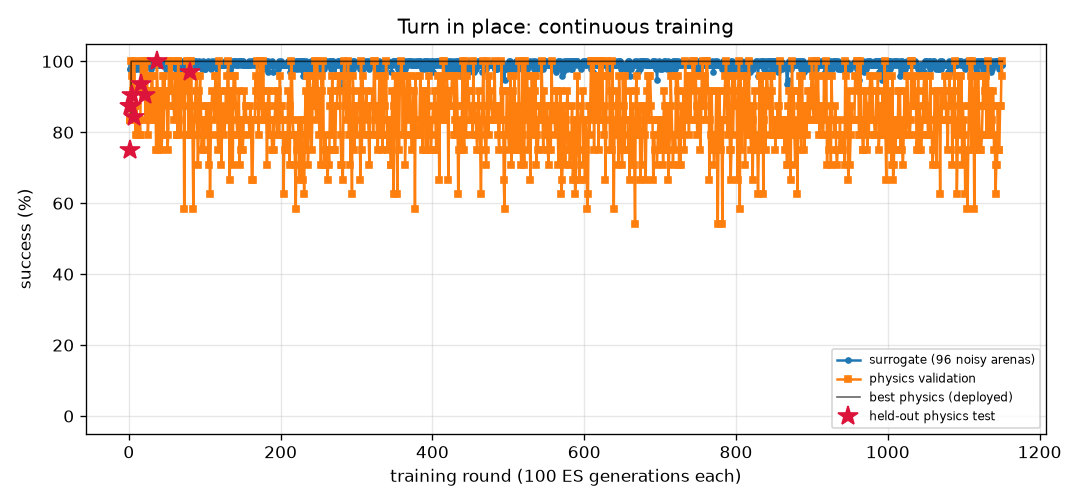
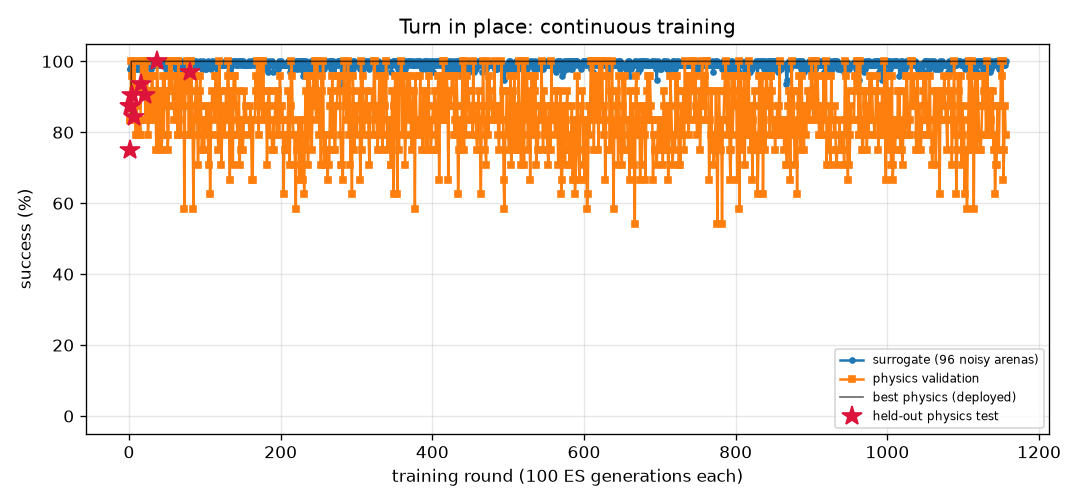
FlyLab: continuous training progress
- walk_forward: optimal, physics val 100% of 24, round 434
- turn: optimal, physics val 100% of 24, round 1156
- goto: optimal, physics val 100% of 24, round 333
- odor_seek: optimal, physics val 100% of 24, round 269
- odor_avoid: optimal, physics val 100% of 24, round 998
- light_seek: optimal, physics val 100% of 24, round 535
- light_avoid: optimal, physics val 100% of 24, round 711

diff --git a/projects/09_flylab/training/odor_avoid/REPORT.md b/projects/09_flylab/training/odor_avoid/REPORT.md
@@ -1,14 +1,14 @@
 # Escape a bad smell (`odor_avoid`) — training report
 
-*Auto-generated by `train_brains.py`, last updated 2026-11-18T23:05:53.*
+*Auto-generated by `train_brains.py`, last updated 2026-11-19T09:53:25.*
 
 ![curve](curve.png)
 
 | | |
 |---|---|
-| rounds | 994 |
-| ES generations | 99400 |
-| physics runs | 21162 |
+| rounds | 998 |
+| ES generations | 99800 |
+| physics runs | 21258 |
 | status | **optimal** |
 | best brain | round 373: physics validation **100%** on 24 arenas, surrogate 97% |
 | held-out physics test | **97%** on 32 unseen arenas (95% CI 84%-99%) (errors: [62.0, 57.4, 62.6, 61.9, 59.0, 61.6, 56.5, 60.7, 31.7, 60.9, 63.1, 57.1, 61.1, 62.1, 61.5, 60.2, 62.2, 55.2, 62.1, 54.2, 61.3, 62.0, 58.0, 61.9, 59.8, 56.5, 56.3, 56.4, 56.3, 57.7, 61.9, 32.4]) |
@@ -17,10 +17,6 @@ Physics error per arena: mm gained away from source (> 6 without first approachi
 
 | round | level | gens | sigma | surrogate | physics val | val errors | test | note |
 |---:|---:|---:|---:|---:|---:|---|---:|---|
-| 955 | 3 | 95500 | 0.025 | 94% | 96% | [60.5, 59.3, 56.0, 59.6, 61.7, 60.2, 61.5, 3.8, 61.9, 18.9, 61.3, 61.6, 55.0, 55.8, 51.1, 60.7, 61.8, 59.4, 54.8, 56.8, 61.1, 22.9, 58.8, 17.3] |  |  |
-| 956 | 3 | 95600 | 0.028 | 94% | 96% | [59.8, 59.1, 56.6, 59.5, 62.0, 60.9, 61.0, 61.4, 61.1, 60.6, 61.4, 61.7, 54.8, 56.7, 52.0, 61.2, 61.6, 60.7, 54.2, 55.8, 61.5, 61.8, 59.7, 61.0] |  |  |
-| 957 | 3 | 95700 | 0.028 | 98% | 96% | [62.4, 57.1, 56.6, 59.4, 62.2, 62.4, 60.3, 48.5, 61.6, 62.0, 61.7, 61.3, 52.2, 56.5, 42.9, 61.3, 62.1, 61.6, 52.8, 56.6, 62.0, 62.4, 59.7, 60.5] |  | restart from best |
-| 958 | 3 | 95800 | 0.026 | 97% | 100% | [63.5, 57.7, 58.1, 61.2, 62.6, 61.9, 61.8, 41.7, 60.3, 60.3, 61.8, 61.0, 54.6, 58.3, 38.2, 61.6, 61.9, 60.7, 55.1, 55.3, 61.7, 60.2, 58.4, 58.1] |  |  |
 | 959 | 3 | 95900 | 0.026 | 97% | 96% | [61.1, 58.5, 56.1, 58.6, 60.3, 60.8, 59.6, 31.2, 60.6, 50.7, 56.5, 60.2, 51.2, 56.3, 37.9, 59.3, 61.0, 60.2, 54.3, 58.6, 60.5, 58.7, 58.4, 54.6] |  |  |
 | 960 | 3 | 96000 | 0.026 | 95% | 96% | [60.4, 57.2, 54.9, 58.8, 59.9, 59.2, 59.1, 44.5, 59.5, 59.4, 60.0, 59.8, 53.6, 55.1, 47.1, 59.5, 59.7, 59.7, 53.7, 55.2, 59.9, 58.2, 57.3, 57.7] |  |  |
 | 961 | 3 | 96100 | 0.027 | 96% | 92% | [59.0, 57.6, 54.0, 57.9, 58.5, 58.7, 58.7, 46.7, 59.2, 56.7, 57.1, 58.7, 50.4, 50.8, 35.2, 57.7, 59.0, 59.2, 48.1, 56.3, 58.8, 55.7, 56.9, 56.7] |  | restart from best |
@@ -57,3 +53,7 @@ Physics error per arena: mm gained away from source (> 6 without first approachi
 | 992 | 3 | 99200 | 0.028 | 95% | 96% | [63.4, 59.2, 58.0, 61.4, 62.0, 61.2, 60.9, 47.0, 59.6, 57.9, 62.0, 61.4, 51.8, 55.7, 38.9, 61.8, 61.8, 61.2, 55.0, 57.1, 61.4, 61.9, 59.6, 43.0] |  |  |
 | 993 | 3 | 99300 | 0.027 | 98% | 100% | [63.5, 59.2, 57.7, 59.9, 61.9, 62.5, 61.0, 54.7, 61.4, 60.5, 59.4, 61.7, 48.8, 56.0, 41.4, 62.9, 61.7, 62.7, 52.7, 60.0, 61.2, 61.4, 59.0, 62.7] |  | restart from best |
 | 994 | 3 | 99400 | 0.026 | 96% | 100% | [61.4, 60.5, 55.9, 60.7, 30.4, 56.8, 62.1, 47.9, 62.0, 20.1, 44.2, 61.0, 51.7, 56.0, 31.4, 60.1, 61.4, 46.9, 51.9, 59.9, 60.8, 46.9, 59.9, 61.4] |  |  |
+| 995 | 3 | 99500 | 0.026 | 94% | 96% | [62.4, 59.6, 58.1, 59.3, 61.3, 60.1, 61.2, 38.5, 61.5, 46.5, 61.1, 61.1, 52.1, 58.2, 46.7, 60.3, 61.1, 60.4, 55.0, 59.4, 61.2, 54.8, 57.4, 55.2] |  |  |
+| 996 | 3 | 99600 | 0.028 | 94% | 96% | [61.4, 59.4, 56.0, 59.3, 60.5, 59.6, 61.2, 49.6, 61.5, 46.8, 34.6, 61.1, 52.7, 56.1, 40.1, 61.4, 61.1, 57.2, 54.4, 59.0, 61.4, 45.4, 59.4, 52.0] |  |  |
+| 997 | 3 | 99700 | 0.028 | 95% | 92% | [62.6, 60.7, 54.8, 60.9, 61.3, 62.0, 61.4, 62.3, 61.4, 62.0, 60.2, 60.3, 36.4, 55.3, 40.2, 60.6, 61.4, 60.8, 53.7, 59.7, 61.0, 62.3, 59.9, 62.9] |  | restart from best |
+| 998 | 3 | 99800 | 0.026 | 97% | 100% | [61.1, 59.7, 56.2, 59.1, 61.3, 61.7, 61.6, 30.0, 61.5, 32.3, 50.3, 61.3, 50.8, 56.1, 7.6, 60.7, 61.3, 56.2, 53.8, 59.0, 61.7, 56.1, 60.2, 48.0] |  |  |

diff --git a/projects/09_flylab/training/turn/REPORT.md b/projects/09_flylab/training/turn/REPORT.md
@@ -1,14 +1,14 @@
 # Turn in place (`turn`) — training report
 
-*Auto-generated by `train_brains.py`, last updated 2026-11-18T22:20:38.*
+*Auto-generated by `train_brains.py`, last updated 2026-11-19T09:52:02.*
 
 ![curve](curve.png)
 
 | | |
 |---|---|
-| rounds | 1151 |
-| ES generations | 115100 |
-| physics runs | 27870 |
+| rounds | 1156 |
+| ES generations | 115600 |
+| physics runs | 27990 |
 | status | **optimal** |
 | best brain | round 80: physics validation **100%** on 24 arenas, surrogate 100% |
 | held-out physics test | **97%** on 32 unseen arenas (95% CI 84%-99%) (errors: [1.6, 3.3, 6.3, 3.7, 1.1, 0.4, 2.4, 2.9, 0.1, 2.6, 0.5, 2.7, 1.5, 3.1, 4.5, 0.2, 0.5, 1.1, 2.0, 4.4, 2.8, 3.2, 0.3, 2.2, 0.5, 3.0, 0.3, 5.4, 0.4, 1.0, 4.7, 10.7]) |
@@ -17,11 +17,6 @@ Physics error per arena: deg from target heading (< 20 = success).
 
 | round | level | gens | sigma | surrogate | physics val | val errors | test | note |
 |---:|---:|---:|---:|---:|---:|---|---:|---|
-| 1112 | 3 | 111200 | 0.024 | 99% | 88% | [4.9, 9.7, 7.3, 1.8, 1.1, 0.9, 3.8, 5.2, 3.4, 0.4, 2.5, 1.3, 1.7, 4.0, 2.4, 0.5, 1.2, 0.5, 0.7, 0.1, 3.1, 0.6, 3.0, 0.8] |  | restart from best |
-| 1113 | 3 | 111300 | 0.024 | 100% | 88% | [8.1, 8.3, 4.9, 3.6, 4.4, 5.7, 3.0, 2.7, 3.7, 1.3, 3.2, 1.8, 0.7, 4.3, 3.8, 0.2, 2.2, 1.7, 0.2, 2.4, 6.9, 0.6, 4.5, 4.9] |  |  |
-| 1114 | 3 | 111400 | 0.024 | 99% | 58% | [9.1, 10.9, 4.9, 3.8, 0.6, 5.6, 3.9, 6.6, 4.1, 1.9, 0.8, 2.2, 0.5, 2.7, 1.9, 1.2, 3.8, 0.5, 1.4, 3.9, 6.3, 1.3, 2.5, 3.1] |  |  |
-| 1115 | 3 | 111500 | 0.025 | 99% | 92% | [2.9, 5.5, 0.3, 3.6, 2.0, 1.0, 3.0, 2.6, 4.5, 14.5, 3.2, 0.8, 1.6, 0.4, 3.8, 2.1, 0.8, 0.6, 15.7, 0.1, 5.0, 0.7, 4.9, 1.7] |  |  |
-| 1116 | 3 | 111600 | 0.025 | 98% | 96% | [6.5, 7.7, 3.1, 4.1, 1.9, 1.0, 4.0, 3.0, 3.4, 0.2, 3.4, 2.0, 4.2, 4.0, 2.9, 2.2, 1.8, 0.1, 1.8, 1.4, 4.8, 0.0, 3.1, 2.7] |  | restart from best |
 | 1117 | 3 | 111700 | 0.024 | 100% | 79% | [1.7, 3.8, 4.1, 1.6, 2.3, 0.3, 4.6, 7.7, 4.1, 14.4, 5.2, 1.7, 0.3, 1.1, 4.9, 2.1, 1.8, 1.5, 2.3, 0.9, 1.4, 0.7, 4.8, 7.0] |  |  |
 | 1118 | 3 | 111800 | 0.024 | 97% | 75% | [9.6, 10.8, 3.3, 3.3, 4.4, 2.4, 2.7, 6.6, 2.3, 0.9, 1.6, 4.5, 2.2, 3.2, 1.6, 2.5, 4.6, 1.2, 2.2, 2.7, 7.7, 5.0, 2.4, 0.8] |  |  |
 | 1119 | 3 | 111900 | 0.026 | 100% | 96% | [3.0, 1.0, 3.5, 1.9, 0.2, 0.9, 6.7, 3.4, 6.0, 0.9, 4.2, 1.2, 1.9, 1.5, 3.0, 10.1, 1.4, 2.1, 0.8, 0.8, 5.2, 1.0, 5.9, 6.0] |  |  |
@@ -57,3 +52,8 @@ Physics error per arena: deg from target heading (< 20 = success).
 | 1149 | 3 | 114900 | 0.024 | 100% | 88% | [8.0, 6.6, 6.4, 3.1, 10.0, 1.3, 3.5, 0.3, 4.3, 1.1, 2.8, 1.3, 2.4, 4.5, 3.7, 1.1, 1.3, 0.4, 1.4, 1.0, 6.9, 0.0, 4.2, 2.1] |  |  |
 | 1150 | 3 | 115000 | 0.024 | 99% | 100% | [3.6, 0.7, 6.2, 0.6, 1.4, 3.7, 5.5, 2.3, 7.4, 1.2, 3.6, 1.8, 0.9, 0.8, 4.2, 4.8, 2.0, 2.4, 3.3, 14.4, 3.6, 1.6, 6.3, 3.6] |  |  |
 | 1151 | 3 | 115100 | 0.025 | 99% | 96% | [4.9, 7.3, 2.5, 0.8, 1.5, 1.4, 4.7, 5.7, 4.2, 0.2, 4.1, 0.8, 3.7, 2.9, 3.8, 0.1, 1.0, 0.6, 0.7, 1.9, 4.6, 0.6, 3.3, 4.6] |  |  |
+| 1152 | 3 | 115200 | 0.025 | 100% | 100% | [5.3, 8.8, 7.1, 1.6, 0.8, 3.2, 1.5, 0.4, 1.3, 0.7, 1.2, 1.8, 1.3, 4.7, 2.3, 17.4, 1.9, 1.0, 0.3, 1.2, 6.1, 1.1, 2.3, 2.5] |  | restart from best |
+| 1153 | 3 | 115300 | 0.024 | 100% | 67% | [4.1, 2.2, 6.3, 0.0, 0.6, 0.9, 5.4, 10.2, 6.4, 14.3, 5.2, 1.1, 0.2, 1.4, 4.9, 1.6, 0.5, 2.6, 2.4, 2.5, 4.2, 2.9, 7.0, 6.5] |  |  |
+| 1154 | 3 | 115400 | 0.024 | 99% | 75% | [7.2, 11.2, 3.5, 2.2, 4.6, 7.2, 2.0, 0.1, 3.6, 0.1, 2.9, 2.6, 1.5, 4.6, 5.2, 0.4, 2.1, 0.3, 0.6, 1.2, 6.7, 0.1, 4.1, 2.4] |  |  |
+| 1155 | 3 | 115500 | 0.025 | 99% | 88% | [9.3, 6.9, 0.1, 1.8, 9.4, 2.0, 9.8, 10.9, 9.4, 4.1, 5.6, 5.2, 1.0, 1.4, 5.9, 4.3, 5.4, 7.3, 5.0, 9.5, 2.1, 2.6, 9.5, 10.9] |  |  |
+| 1156 | 3 | 115600 | 0.025 | 100% | 79% | [0.2, 2.7, 7.3, 0.6, 17.3, 2.7, 7.7, 8.6, 6.7, 2.8, 5.4, 2.6, 0.9, 0.6, 4.6, 3.3, 3.1, 14.0, 15.3, 3.8, 5.5, 3.5, 7.6, 8.9] |  | restart from best |

diff --git a/projects/09_flylab/training/TRAINING.md b/projects/09_flylab/training/TRAINING.md
@@ -1,15 +1,15 @@
 # FlyLab brains — continuous training log
 
-*Auto-generated by `train_brains.py`, last updated 2026-11-19T01:27:00.*
+*Auto-generated by `train_brains.py`, last updated 2026-11-19T09:53:25.*
 
 Every skill has its own brain and its own training process: surrogate ES rounds, physics validation in MuJoCo, keep-the-best selection, and a held-out physics test that is never used for selection. See each skill's report for its full round-by-round history. Mastery is progressive: passing a level (100% physics validation, >=95% surrogate) doubles the validation and test arena sets; a brain is **optimal** once it holds up at level 3 (>=95% of 24 validation arenas) AND scores >=90% on the 32 held-out test arenas. Test columns show 95% Wilson confidence intervals.
 
 | skill | rounds | ES generations | physics runs | surrogate | physics val | **physics test** | status |
 |---|---:|---:|---:|---:|---:|---:|---|
 | [Walk forward](walk_forward/REPORT.md) | 434 | 43400 | 10430 | 100% | 100% of 24 | 100% of 32 (CI 89-100%) | **optimal** |
-| [Turn in place](turn/REPORT.md) | 1151 | 115100 | 27870 | 100% | 100% of 24 | 97% of 32 (CI 84-99%) | **optimal** |
+| [Turn in place](turn/REPORT.md) | 1156 | 115600 | 27990 | 100% | 100% of 24 | 97% of 32 (CI 84-99%) | **optimal** |
 | [Go to a location](goto/REPORT.md) | 333 | 33300 | 7942 | 100% | 100% of 24 | 100% of 32 (CI 89-100%) | **optimal** |
 | [Find food by smell](odor_seek/REPORT.md) | 269 | 26900 | 5950 | 100% | 100% of 24 | 100% of 32 (CI 89-100%) | **optimal** |
-| [Escape a bad smell](odor_avoid/REPORT.md) | 994 | 99400 | 21162 | 97% | 100% of 24 | 97% of 32 (CI 84-99%) | **optimal** |
+| [Escape a bad smell](odor_avoid/REPORT.md) | 998 | 99800 | 21258 | 97% | 100% of 24 | 97% of 32 (CI 84-99%) | **optimal** |
 | [Walk toward light](light_seek/REPORT.md) | 535 | 53500 | 9720 | 100% | 100% of 24 | 100% of 32 (CI 89-100%) | **optimal** |
 | [Hide from light](light_avoid/REPORT.md) | 711 | 71100 | 17336 | 100% | 100% of 24 | 100% of 32 (CI 89-100%) | **optimal** |
